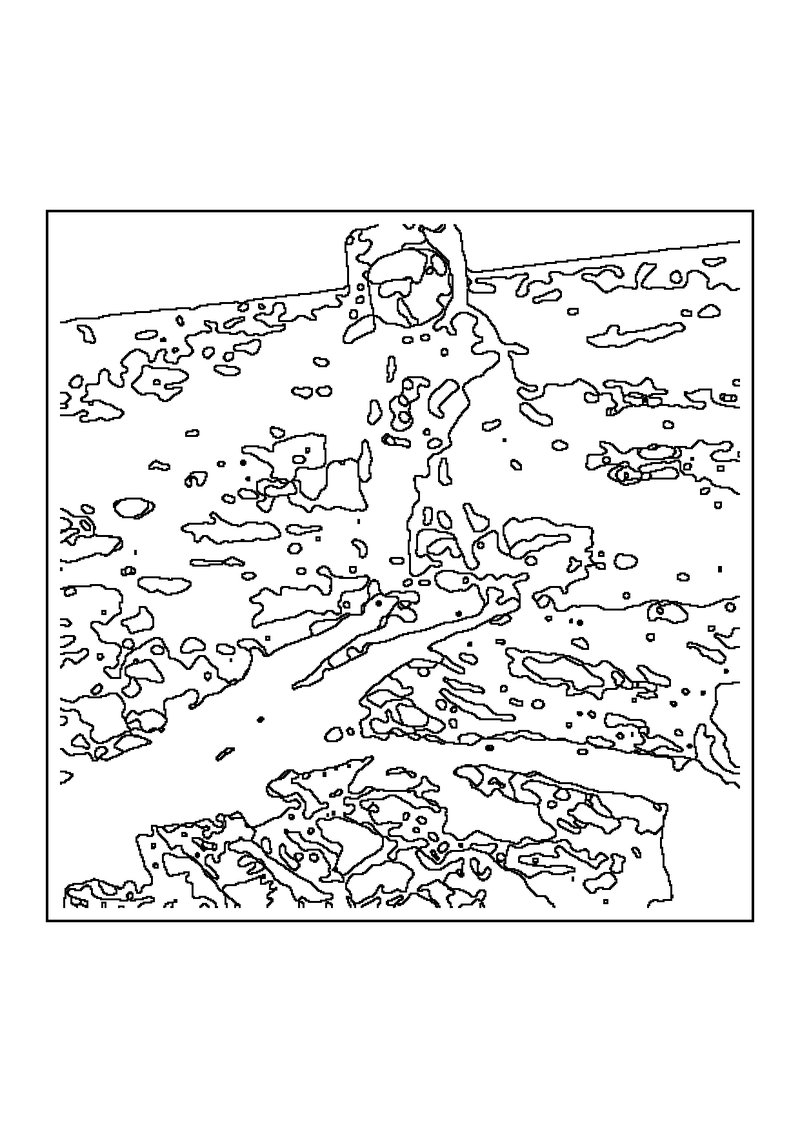
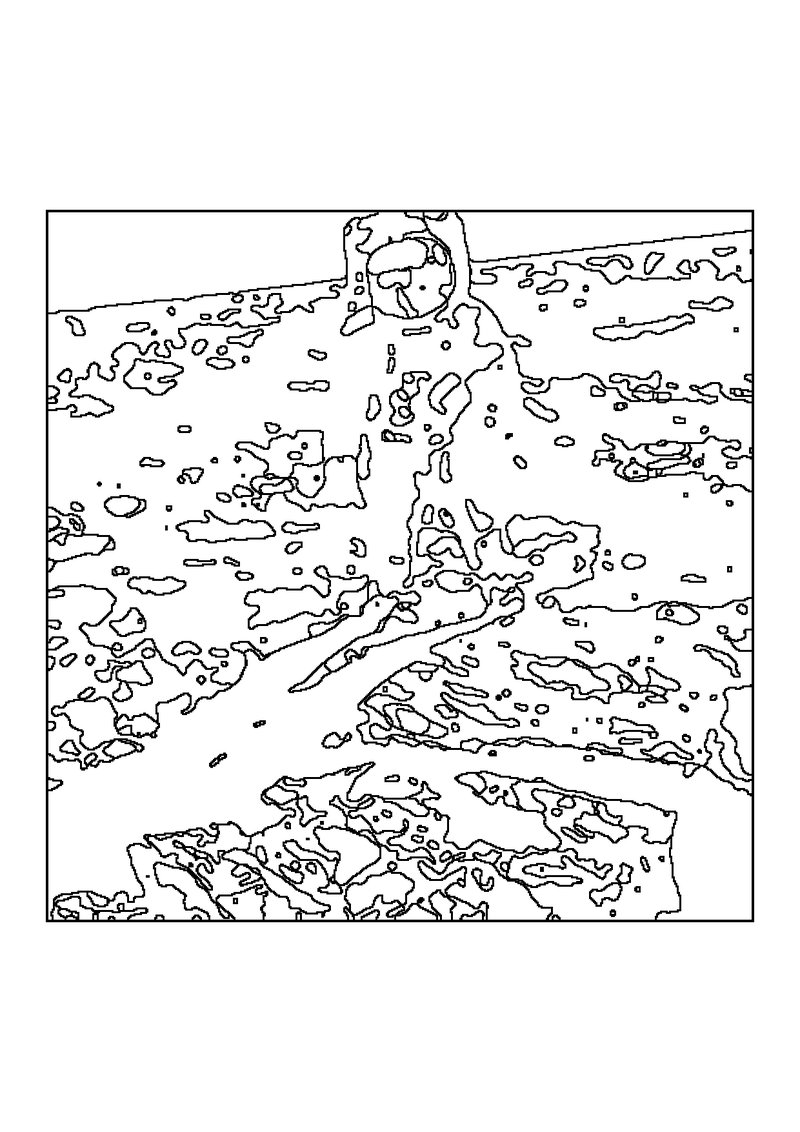
fix(colour-in): address review feedback (#36)
Draw the frame flush against the line art (no white pad between them), so the outlines that reach the photo's edge run into the frame and the shapes the edge cuts through are closed. Add a regression test and re-render the colour-in sample.

Changed region(s): [[0.0625, 0.1855, 0.9375, 0.8348], [0.3125, 0.6184, 0.3438, 0.6493], [0.25, 0.6493, 0.2812, 0.6802]]

diff --git a/src/prt/colourin.py b/src/prt/colourin.py
@@ -2,8 +2,8 @@
 
 The photo is smoothed and cut into a few flat tones, and the outlines between the tones are drawn as black lines:
 the shapes come out mostly closed, so each can be coloured in. The art is fitted whole (never cropped) in a frame on
-an A4 sheet, upright for a portrait photo and on its side for a landscape one; the frame closes the shapes the
-photo's edge cuts through. Every pixel of the page is pure black or pure white, so it prints with black ink only.
+an A4 sheet, upright for a portrait photo and on its side for a landscape one; the frame is drawn flush against the
+art, so the outlines that reach the photo's edge meet it and it closes the shapes the edge cuts through. Every pixel of the page is pure black or pure white, so it prints with black ink only.
 """
 
 from __future__ import annotations
@@ -15,8 +15,7 @@ from prt.paper import A4
 
 KIND = "colouring page"
 MARGIN = A4.mm(12)  # white round the frame
-FRAME = 4  # px: the line round the art
-PAD = A4.mm(3)  # white between the frame and the art
+FRAME = 4  # px: the line round the art, flush against it (no white between) so the outlines meet it
 SMOOTH = 5  # median filter size: wipes out texture (grass, fabric, skin pores) before the tones are cut
 SMOOTH_PASSES = 2
 TONES = 4  # flat tones the photo is cut into: more gives more, smaller shapes
@@ -50,7 +49,8 @@ def line_art(photo: Image.Image, size: tuple[int, int]) -> Image.Image:
     regions = work.resize(size, Image.Resampling.NEAREST)
     edges = regions.filter(ImageFilter.FIND_EDGES)
     # The edge filter leaves the image's outermost pixels as they were, which would read as a line all round the
-    # art; they are cleared (the frame drawn round the art closes the shapes instead).
+    # art; they are cleared (the frame drawn round the art closes the shapes instead). The outlines still reach the
+    # outermost pixels where they meet the edge: the min filter below spreads them one pixel into the cleared ring.
     edges = ImageOps.expand(ImageOps.crop(edges, 1), 1, 0) if min(size) > 2 else Image.new("L", size, 0)
     return edges.point(lambda v: 0 if v else 255).filter(ImageFilter.MinFilter(LINE))
 
@@ -59,13 +59,12 @@ def compose(photo: Image.Image) -> tuple[Image.Image, Cuts]:
     """The colouring page of ``photo``: its line art fitted whole and centred in a frame on A4. Also returns the
     fields cut to fit (never any: the page has no text)."""
     width, height = page_size(photo)
-    inner = (width - 2 * (MARGIN + FRAME + PAD), height - 2 * (MARGIN + FRAME + PAD))
+    inner = (width - 2 * (MARGIN + FRAME), height - 2 * (MARGIN + FRAME))
     art_w, art_h = _fit(photo.size, inner)
     art = line_art(photo, (art_w, art_h))
     page = Image.new("L", (width, height), 255)
     x0, y0 = (width - art_w) // 2, (height - art_h) // 2
     page.paste(art, (x0, y0))
-    edge = PAD + FRAME
-    ImageDraw.Draw(page).rectangle((x0 - edge, y0 - edge, x0 + art_w - 1 + edge, y0 + art_h - 1 + edge),
+    ImageDraw.Draw(page).rectangle((x0 - FRAME, y0 - FRAME, x0 + art_w - 1 + FRAME, y0 + art_h - 1 + FRAME),
                                    outline=0, width=FRAME)
     return page.convert("RGB"), {}

diff --git a/tests/test_colourin.py b/tests/test_colourin.py
@@ -16,7 +16,7 @@ from prt.transport import ipp
 from conftest import without_estimate
 
 BLACK, WHITE = (0, 0, 0), (255, 255, 255)
-INSET = colourin.FRAME + colourin.PAD + 10  # well inside the frame, clear of its line
+INSET = colourin.FRAME + 10  # well inside the frame, clear of its line
 
 
 def run(capsys, *args):
@@ -53,7 +53,7 @@ def _photo(tmp_path, img=None, name="photo.jpg"):
 
 
 def _art_box(page):
-    """The box inside the frame, found from the frame's black line, shrunk by ``INSET`` - frame - pad."""
+    """The box inside the frame, found from the frame's black line, shrunk by ``INSET`` - frame."""
     grey = page.convert("L")
     x0, y0, x1, y1 = Image.eval(grey, lambda v: 255 - v).getbbox()  # the frame is the outermost black
     return x0 + INSET, y0 + INSET, x1 - INSET, y1 - INSET
@@ -96,6 +96,32 @@ def test_the_page_follows_the_photo_and_keeps_it_whole():
     # The art keeps the photo's shape: the frame round a 2:1 photo is about twice as wide as it is tall.
     x0, y0, x1, y1 = Image.eval(landscape.convert("L"), lambda v: 255 - v).getbbox()
     assert (x1 - x0) / (y1 - y0) == pytest.approx(2, rel=0.05)
+
+
+@pytest.mark.parametrize("split", ["across", "down"])
+def test_outlines_that_reach_the_edge_meet_the_frame(split):
+    """A shape cut by the photo's edge is closed by the frame: the outline between two tones runs into the frame with
+    no white between them, so the two sides do not join round the end of the line."""
+    img = Image.new("RGB", (400, 600), WHITE)
+    w, h = img.size
+    ImageDraw.Draw(img).rectangle((0, h // 2, w - 1, h - 1) if split == "across" else (w // 2, 0, w - 1, h - 1),
+                                  fill=BLACK)
+    page, _ = colourin.compose(img)
+    grey = page.convert("L")
+    x0, y0, x1, y1 = Image.eval(grey, lambda v: 255 - v).getbbox()  # the frame's outer edge
+    if split == "across":
+        mid = (x0 + x1) // 2
+        line = next(y for y in range((y0 + y1) // 2 - 50, y1) if grey.getpixel((mid, y)) == 0)  # the outline
+        assert all(grey.getpixel((x, line)) == 0 for x in range(x0, x1))  # one black run, frame to frame
+        one, other = (mid, (y0 + line) // 2), (mid, (line + y1) // 2)
+    else:
+        mid = (y0 + y1) // 2
+        line = next(x for x in range((x0 + x1) // 2 - 50, x1) if grey.getpixel((x, mid)) == 0)
+        assert all(grey.getpixel((line, y)) == 0 for y in range(y0, y1))
+        one, other = ((x0 + line) // 2, mid), ((line + x1) // 2, mid)
+    # Colouring one side in (a flood fill) leaves the other side and the paper round the frame white.
+    ImageDraw.floodfill(grey, one, 128)
+    assert grey.getpixel(one) == 128 and grey.getpixel(other) == 255 and grey.getpixel((0, 0)) == 255
 
 
 @pytest.mark.parametrize("size", [(1200, 1), (1, 1200), (1, 1), (3, 2)])
